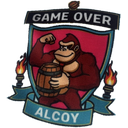
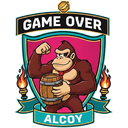
Escudo nuevo (dentro y fuera de la app) y encuesta del entreno que cierra el miércoles a las 14:00

diff --git a/docs/app.js b/docs/app.js
@@ -375,7 +375,7 @@ const resultOf = (m) => {
   return a > b ? "W" : a < b ? "L" : "D";
 };
 const teams = (m) => m.isHome !== false ? ["GAME OVER FC", m.rival] : [m.rival, "GAME OVER FC"];
-const GO_CREST = "crests/game-over-fc.png";
+const GO_CREST = "crests/game-over-fc.png?v=4";
 const CRESTS = {
   "atletico-salesiano": "Atlético Salesiano", "bar-ferrocarril-fs": "Bar Ferrocarril FS", "birrarreal-fs": "Birrarreal FS",
   "buena-onda-fs-b": 'Buena Onda FS "B"', "cd-santa-rosa-copisan": "C.D. Santa Rosa Copisan", "colpet-fs": "Colpet FS",
@@ -538,7 +538,7 @@ function viewTrainings() {
   };
   return `${notifBanner()}
     <div class="section-title"><h2>Entrenos</h2></div>
-    ${current.length ? current.map(card).join("") : `<div class="card empty">La encuesta del entreno se abre el martes a las ${S.cfg.trainingOpenHour ?? 10}:00 y se cierra el miércoles a las ${S.cfg.trainingDeadlineHour ?? 20}:00. 💪</div>`}
+    ${current.length ? current.map(card).join("") : `<div class="card empty">La encuesta del entreno se abre el martes a las ${S.cfg.trainingOpenHour ?? 10}:00 y se cierra el miércoles a las ${S.cfg.trainingDeadlineHour ?? 14}:00. 💪</div>`}
     ${past.length ? `<div class="section-title"><h3>Anteriores</h3></div><div class="card" style="padding:4px 12px">${past.map((t) => {
       const y = Object.values(t.votes || {}).filter((v) => v === "si").length;
       return `<div class="admin-item"><span>${cap(fmtDay(toDate(t.date)))}</span><span class="tag ok">${y} fueron</span></div>`;
@@ -1588,7 +1588,7 @@ function adminMatches() {
 
 function adminTrainings() {
   return `<button class="btn primary block" data-act="train-edit">➕ Crear encuesta de entreno</button>
-    <p class="muted small">Cada martes a las 10:00 se abre automáticamente la encuesta del entreno del miércoles, que cierra el miércoles a las 20:00 (puedes desactivarlo en Ajustes).</p>
+    <p class="muted small">Cada martes a las 10:00 se abre automáticamente la encuesta del entreno del miércoles, que cierra el miércoles a las ${S.cfg.trainingDeadlineHour ?? 14}:00 (puedes desactivarlo en Ajustes).</p>
     <div class="card" style="padding:4px 12px">${S.trainings.map((t) => `<div class="admin-item"><div><b>${cap(fmtDay(toDate(t.date)))}</b><br>
       <span class="muted small">${esc(t.time || "")} ${t.place ? "· " + esc(t.place) : ""} · ${Object.values(t.votes || {}).filter((v) => v === "si").length} van</span></div>
       <div class="acts"><button class="btn sm" data-act="train-edit" data-id="${t.id}">Editar</button></div></div>`).join("") || `<div class="empty">Sin entrenos</div>`}</div>`;
@@ -1720,7 +1720,7 @@ function adminSettings() {
     <label class="check"><input type="checkbox" name="trainingAuto" ${c.trainingAuto !== false ? "checked" : ""}> Abrir encuesta automática cada martes a las 10:00</label>
     <div class="row2">
       <div><label>Hora del entreno</label><input type="time" name="trainingTime" value="${esc(c.trainingTime || "")}"></div>
-      <div><label>Cierre votación entreno (hora)</label><input type="number" name="trainingDeadlineHour" min="0" max="23" value="${esc(c.trainingDeadlineHour ?? 20)}"></div>
+      <div><label>Cierre votación entreno (hora)</label><input type="number" name="trainingDeadlineHour" min="0" max="23" value="${esc(c.trainingDeadlineHour ?? 14)}"></div>
     </div>
     <label>Lugar del entreno</label><input name="trainingPlace" value="${esc(c.trainingPlace || "")}" placeholder="Pabellón…">
     <h3 style="margin-top:16px">Liga</h3>
@@ -1955,7 +1955,7 @@ document.addEventListener("click", async (e) => {
         const t = S.trainings.find((x) => x.id === id);
         if (t) return trainingForm(t);
         const wed = new Date(); wed.setDate(wed.getDate() + ((3 - wed.getDay() + 7) % 7 || 7));
-        const dl = new Date(wed); dl.setHours(S.cfg.trainingDeadlineHour ?? 20, 0, 0, 0);
+        const dl = new Date(wed); dl.setHours(S.cfg.trainingDeadlineHour ?? 14, 0, 0, 0);
         return trainingForm({ date: wed, pollDeadline: dl });
       }
       case "player-edit": return playerForm(S.players.get(id));

diff --git a/docs/index.html b/docs/index.html
@@ -10,8 +10,8 @@
   <meta name="apple-mobile-web-app-status-bar-style" content="black-translucent">
   <meta name="apple-mobile-web-app-title" content="Game Over FC">
   <link rel="manifest" href="manifest.json">
-  <link rel="icon" href="icons/icon-96.png?v=3">
-  <link rel="apple-touch-icon" href="icons/icon-180.png?v=3">
+  <link rel="icon" href="icons/icon-96.png?v=4">
+  <link rel="apple-touch-icon" href="icons/icon-180.png?v=4">
   <link rel="preconnect" href="https://fonts.googleapis.com">
   <link rel="preconnect" href="https://fonts.gstatic.com" crossorigin>
   <link href="https://fonts.googleapis.com/css2?family=Bebas+Neue&family=Inter:wght@400;600;800&display=block" rel="stylesheet">
@@ -22,7 +22,7 @@
   <div class="court" aria-hidden="true"><span class="mid"></span><span class="circle"></span><span class="area a1"></span><span class="area a2"></span></div>
 
   <header class="topbar">
-    <img src="icons/logo.png?v=3" alt="Escudo Game Over FC" class="crest">
+    <img src="icons/logo.png?v=4" alt="Escudo Game Over FC" class="crest">
     <div>
       <h1>GAME OVER FC</h1>
       <small>Liga Comarcal Fútbol Sala · Alcoy</small>

diff --git a/docs/sw.js b/docs/sw.js
@@ -2,9 +2,9 @@
 // Las notificaciones las muestra SIEMPRE este archivo (con la app abierta o cerrada, en Android y en iPhone),
 // sin depender de la librería de Firebase en segundo plano.
 
-const CACHE = "gofc-v20";
+const CACHE = "gofc-v21";
 const SHELL = ["./", "./index.html", "./styles.css", "./app.js", "./firebase-config.js",
-  "./manifest.json", "./icons/logo.png?v=3", "./icons/icon-192.png"];
+  "./manifest.json", "./icons/logo.png?v=4", "./icons/icon-192.png"];
 
 self.addEventListener("install", (e) => {
   e.waitUntil(caches.open(CACHE).then((c) => c.addAll(SHELL)).then(() => self.skipWaiting()));

diff --git a/scripts/training.py b/scripts/training.py
@@ -1,4 +1,4 @@
-"""Martes a las 10:00 (hora de Madrid): abre la encuesta del entreno del miércoles (cierra el miércoles a las 20:00)."""
+"""Martes a las 10:00 (hora de Madrid): abre la encuesta del entreno del miércoles (cierra el miércoles a las 14:00)."""
 from datetime import datetime, timedelta
 
 from common import TZ, get_config, human, init, now, send_push
@@ -12,7 +12,7 @@ def main(force=False):
         print("Encuesta automática de entreno desactivada en Ajustes.")
         return
     open_hour = int(cfg.get("trainingOpenHour", 10))
-    dl_hour = int(cfg.get("trainingDeadlineHour", 20))
+    dl_hour = int(cfg.get("trainingDeadlineHour", 14))
     # Se abre el martes a partir de las 10:00. Si GitHub se saltó esa ejecución, se recupera en la
     # siguiente que haya (hasta el miércoles antes del cierre).
     tuesday_open = today.weekday() == 1 and today.hour >= open_hour

diff --git a/scripts/common.py b/scripts/common.py
@@ -16,7 +16,7 @@ DEFAULT_CONFIG = {
     "trainingAuto": True,
     "trainingTime": "20:00",            # el entreno es el miércoles a las 20:00
     "trainingOpenHour": 10,            # la encuesta se abre el martes a las 10:00
-    "trainingDeadlineHour": 20,
+    "trainingDeadlineHour": 14,        # la encuesta del entreno se cierra el miércoles a las 14:00
     "trainingPlace": "",
     "leagueUrl": "https://ligacomarcal.com/competicion/lc-cuarta-division-26-27-mtizb4nd/clasificacion",
 }

diff --git a/GUIA_INSTALACION.md b/GUIA_INSTALACION.md
@@ -54,7 +54,7 @@ Enlace: **https://jowy293.github.io/aplicacion-gameover/**
 |---|---|
 | **Cuando el admin pone la hora del partido** | Se abre la **votación de asistencia** y llega una **notificación a todos** (en menos de 1 hora; los miércoles, 15 min). Si cambia la hora, llega otro aviso. |
 | **Votación del partido** | **Voy / No voy** hasta el **miércoles a las 20:00** de esa semana (si el partido es antes, hasta que empieza). |
-| **Martes 10:00** | Se abre la **encuesta del entreno del miércoles** (entreno a las 20:00), con aviso. Cierra el **miércoles a las 20:00**. |
+| **Martes 10:00** | Se abre la **encuesta del entreno del miércoles** (entreno a las 20:00), con aviso. Cierra el **miércoles a las 14:00**. |
 | **Fantasy** | Se abre solo para el próximo partido y se cierra al empezar. El admin puede abrirlo, cerrarlo o desactivarlo cuando quiera. |
 | **24 h y 2 h antes de cada cierre** | Recordatorio **solo a quien no ha votado** (partido, entreno) o **no ha hecho su Fantasy**. |
 | **Después del partido** | El admin pone el resultado, quién fue, el quinteto inicial y los goleadores. Los puntos Fantasy, los goleadores y quién puede valorar se actualizan solos. |
